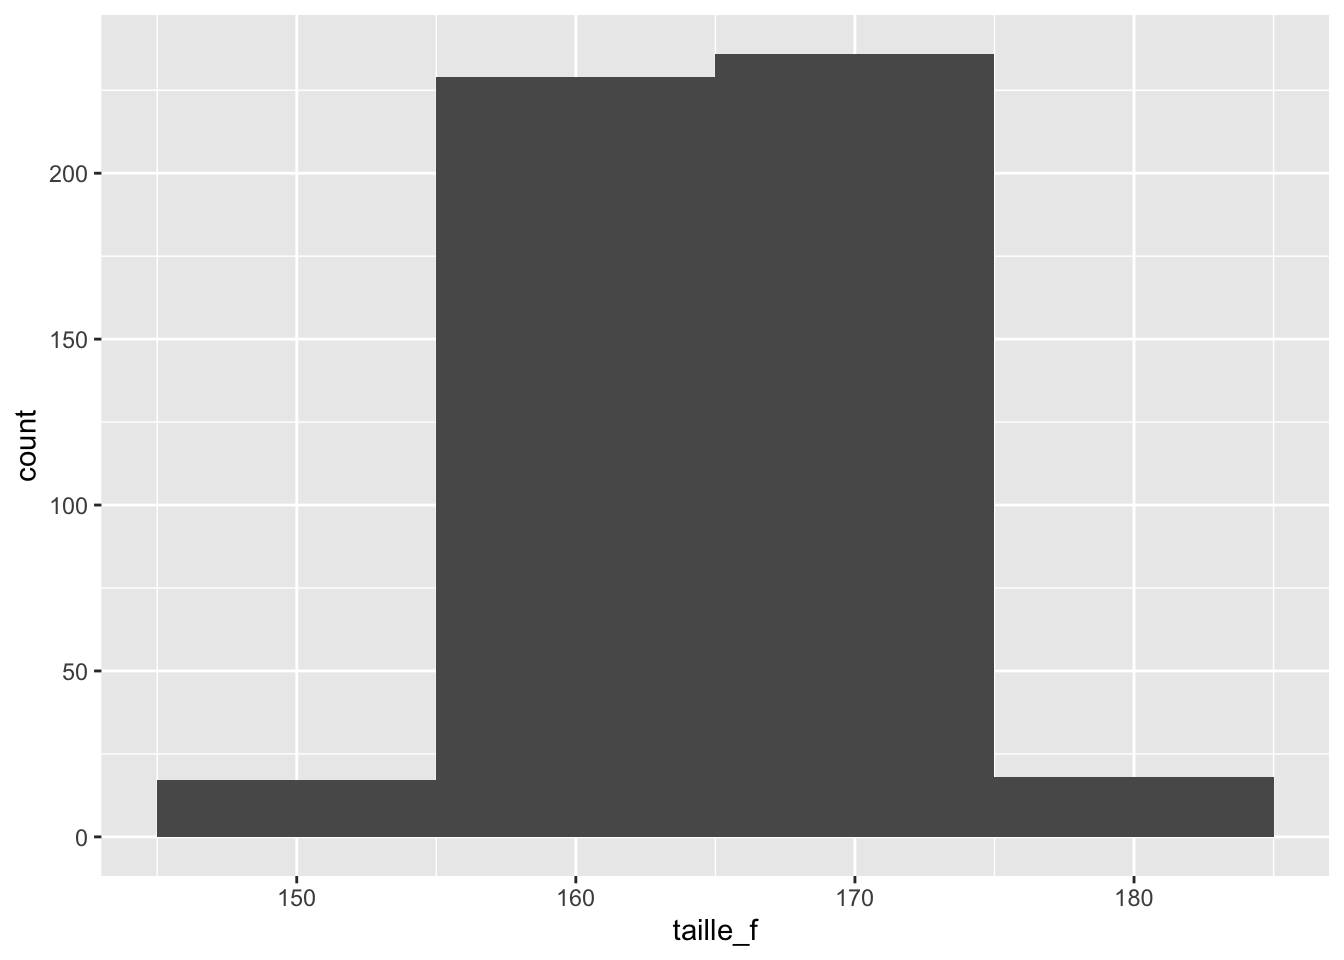
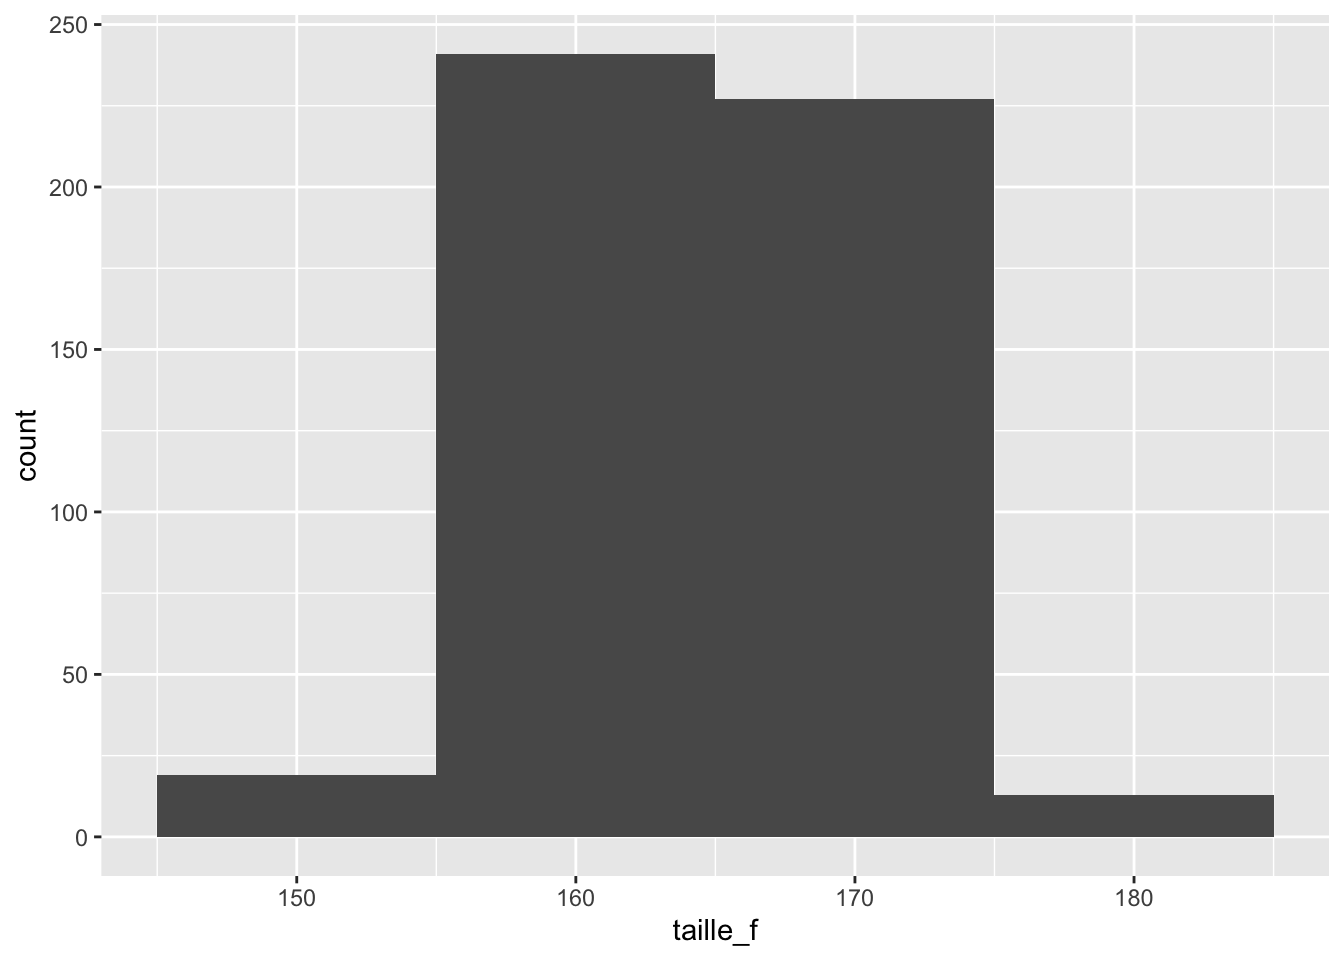
session 8 v1

diff --git a/index.html b/index.html
@@ -1727,7 +1727,7 @@ Attention
 <span id="cb100-5"><a href="#cb100-5" aria-hidden="true" tabindex="-1"></a></span>
 <span id="cb100-6"><a href="#cb100-6" aria-hidden="true" tabindex="-1"></a><span class="fu">head</span>(taille_f)</span></code><button title="Copy to Clipboard" class="code-copy-button"><i class="bi"></i></button></pre></div>
 <div class="cell-output cell-output-stdout">
-<pre><code>[1] 156.1311 160.8612 167.7112 164.9746 169.7221 164.9807</code></pre>
+<pre><code>[1] 161.1955 156.8715 173.0165 159.7963 172.5715 172.6015</code></pre>
 </div>
 <div class="sourceCode cell-code" id="cb102"><pre class="sourceCode r code-with-copy"><code class="sourceCode r"><span id="cb102-1"><a href="#cb102-1" aria-hidden="true" tabindex="-1"></a><span class="co"># stocker taille_f comme objet de type 'data.frame'</span></span>
 <span id="cb102-2"><a href="#cb102-2" aria-hidden="true" tabindex="-1"></a>taille_f <span class="ot">&lt;-</span> <span class="fu">as.data.frame</span>(taille_f)</span>
@@ -2266,40 +2266,42 @@ Astuce
 <span id="cb121-22"><a href="#cb121-22" aria-hidden="true" tabindex="-1"></a><span class="co"># Filtrer à partir de valeurs numériques, p. ex. les posts</span></span>
 <span id="cb121-23"><a href="#cb121-23" aria-hidden="true" tabindex="-1"></a><span class="co"># avec au moins 10 millions d'intéractions :</span></span>
 <span id="cb121-24"><a href="#cb121-24" aria-hidden="true" tabindex="-1"></a></span>
-<span id="cb121-25"><a href="#cb121-25" aria-hidden="true" tabindex="-1"></a>df1 <span class="sc">%&gt;%</span></span>
-<span id="cb121-26"><a href="#cb121-26" aria-hidden="true" tabindex="-1"></a>    <span class="fu">filter</span>(Total.Interactions <span class="sc">&gt;=</span> <span class="fl">1e+07</span>)</span>
-<span id="cb121-27"><a href="#cb121-27" aria-hidden="true" tabindex="-1"></a></span>
-<span id="cb121-28"><a href="#cb121-28" aria-hidden="true" tabindex="-1"></a><span class="co"># Filtrer pour les posts de Selena Gomez avec au moins 10</span></span>
-<span id="cb121-29"><a href="#cb121-29" aria-hidden="true" tabindex="-1"></a><span class="co"># millions d'intéractions :</span></span>
-<span id="cb121-30"><a href="#cb121-30" aria-hidden="true" tabindex="-1"></a></span>
-<span id="cb121-31"><a href="#cb121-31" aria-hidden="true" tabindex="-1"></a>df1 <span class="sc">%&gt;%</span></span>
-<span id="cb121-32"><a href="#cb121-32" aria-hidden="true" tabindex="-1"></a>    <span class="fu">filter</span>(Account <span class="sc">==</span> <span class="st">"Selena Gomez"</span>, Total.Interactions <span class="sc">&gt;=</span> <span class="fl">1e+07</span>)</span>
-<span id="cb121-33"><a href="#cb121-33" aria-hidden="true" tabindex="-1"></a></span>
-<span id="cb121-34"><a href="#cb121-34" aria-hidden="true" tabindex="-1"></a><span class="do">###############################################################################</span></span>
+<span id="cb121-25"><a href="#cb121-25" aria-hidden="true" tabindex="-1"></a><span class="fu">options</span>(<span class="at">scipen =</span> <span class="dv">999</span>)  <span class="co"># Cette commande désactive la notation scientifique des nombres</span></span>
+<span id="cb121-26"><a href="#cb121-26" aria-hidden="true" tabindex="-1"></a></span>
+<span id="cb121-27"><a href="#cb121-27" aria-hidden="true" tabindex="-1"></a>df1 <span class="sc">%&gt;%</span></span>
+<span id="cb121-28"><a href="#cb121-28" aria-hidden="true" tabindex="-1"></a>    <span class="fu">filter</span>(Total.Interactions <span class="sc">&gt;=</span> <span class="fl">1e+07</span>)</span>
+<span id="cb121-29"><a href="#cb121-29" aria-hidden="true" tabindex="-1"></a></span>
+<span id="cb121-30"><a href="#cb121-30" aria-hidden="true" tabindex="-1"></a><span class="co"># Filtrer pour les posts de Selena Gomez avec au moins 10</span></span>
+<span id="cb121-31"><a href="#cb121-31" aria-hidden="true" tabindex="-1"></a><span class="co"># millions d'intéractions :</span></span>
+<span id="cb121-32"><a href="#cb121-32" aria-hidden="true" tabindex="-1"></a></span>
+<span id="cb121-33"><a href="#cb121-33" aria-hidden="true" tabindex="-1"></a>df1 <span class="sc">%&gt;%</span></span>
+<span id="cb121-34"><a href="#cb121-34" aria-hidden="true" tabindex="-1"></a>    <span class="fu">filter</span>(Account <span class="sc">==</span> <span class="st">"Selena Gomez"</span>, Total.Interactions <span class="sc">&gt;=</span> <span class="fl">1e+07</span>)</span>
 <span id="cb121-35"><a href="#cb121-35" aria-hidden="true" tabindex="-1"></a></span>
-<span id="cb121-36"><a href="#cb121-36" aria-hidden="true" tabindex="-1"></a></span>
-<span id="cb121-37"><a href="#cb121-37" aria-hidden="true" tabindex="-1"></a><span class="co"># arrange() : fonction pour trier les lignes selon un ou</span></span>
-<span id="cb121-38"><a href="#cb121-38" aria-hidden="true" tabindex="-1"></a><span class="co"># plusieurs critères</span></span>
-<span id="cb121-39"><a href="#cb121-39" aria-hidden="true" tabindex="-1"></a></span>
-<span id="cb121-40"><a href="#cb121-40" aria-hidden="true" tabindex="-1"></a><span class="co"># Trier des valeurs/facteurs textuelles par ordre</span></span>
-<span id="cb121-41"><a href="#cb121-41" aria-hidden="true" tabindex="-1"></a><span class="co"># alphabétique :</span></span>
-<span id="cb121-42"><a href="#cb121-42" aria-hidden="true" tabindex="-1"></a></span>
-<span id="cb121-43"><a href="#cb121-43" aria-hidden="true" tabindex="-1"></a>df1 <span class="sc">%&gt;%</span></span>
-<span id="cb121-44"><a href="#cb121-44" aria-hidden="true" tabindex="-1"></a>    <span class="fu">arrange</span>(Account) <span class="sc">%&gt;%</span></span>
-<span id="cb121-45"><a href="#cb121-45" aria-hidden="true" tabindex="-1"></a>    <span class="fu">head</span>(<span class="dv">10</span>)</span>
-<span id="cb121-46"><a href="#cb121-46" aria-hidden="true" tabindex="-1"></a></span>
-<span id="cb121-47"><a href="#cb121-47" aria-hidden="true" tabindex="-1"></a><span class="co"># Trier par le nombre d'intéractions (ordre croissant)</span></span>
+<span id="cb121-36"><a href="#cb121-36" aria-hidden="true" tabindex="-1"></a><span class="do">###############################################################################</span></span>
+<span id="cb121-37"><a href="#cb121-37" aria-hidden="true" tabindex="-1"></a></span>
+<span id="cb121-38"><a href="#cb121-38" aria-hidden="true" tabindex="-1"></a></span>
+<span id="cb121-39"><a href="#cb121-39" aria-hidden="true" tabindex="-1"></a><span class="co"># arrange() : fonction pour trier les lignes selon un ou</span></span>
+<span id="cb121-40"><a href="#cb121-40" aria-hidden="true" tabindex="-1"></a><span class="co"># plusieurs critères</span></span>
+<span id="cb121-41"><a href="#cb121-41" aria-hidden="true" tabindex="-1"></a></span>
+<span id="cb121-42"><a href="#cb121-42" aria-hidden="true" tabindex="-1"></a><span class="co"># Trier des valeurs/facteurs textuelles par ordre</span></span>
+<span id="cb121-43"><a href="#cb121-43" aria-hidden="true" tabindex="-1"></a><span class="co"># alphabétique :</span></span>
+<span id="cb121-44"><a href="#cb121-44" aria-hidden="true" tabindex="-1"></a></span>
+<span id="cb121-45"><a href="#cb121-45" aria-hidden="true" tabindex="-1"></a>df1 <span class="sc">%&gt;%</span></span>
+<span id="cb121-46"><a href="#cb121-46" aria-hidden="true" tabindex="-1"></a>    <span class="fu">arrange</span>(Account) <span class="sc">%&gt;%</span></span>
+<span id="cb121-47"><a href="#cb121-47" aria-hidden="true" tabindex="-1"></a>    <span class="fu">head</span>(<span class="dv">10</span>)</span>
 <span id="cb121-48"><a href="#cb121-48" aria-hidden="true" tabindex="-1"></a></span>
-<span id="cb121-49"><a href="#cb121-49" aria-hidden="true" tabindex="-1"></a>df1 <span class="sc">%&gt;%</span></span>
-<span id="cb121-50"><a href="#cb121-50" aria-hidden="true" tabindex="-1"></a>    <span class="fu">arrange</span>(Total.Interactions) <span class="sc">%&gt;%</span></span>
-<span id="cb121-51"><a href="#cb121-51" aria-hidden="true" tabindex="-1"></a>    <span class="fu">head</span>(<span class="dv">10</span>)</span>
-<span id="cb121-52"><a href="#cb121-52" aria-hidden="true" tabindex="-1"></a></span>
-<span id="cb121-53"><a href="#cb121-53" aria-hidden="true" tabindex="-1"></a><span class="co"># Trier par le nombre d'intéractions par follower (ordre</span></span>
-<span id="cb121-54"><a href="#cb121-54" aria-hidden="true" tabindex="-1"></a><span class="co"># décroissant)</span></span>
-<span id="cb121-55"><a href="#cb121-55" aria-hidden="true" tabindex="-1"></a></span>
-<span id="cb121-56"><a href="#cb121-56" aria-hidden="true" tabindex="-1"></a>df1 <span class="sc">%&gt;%</span></span>
-<span id="cb121-57"><a href="#cb121-57" aria-hidden="true" tabindex="-1"></a>    <span class="fu">arrange</span>(<span class="fu">desc</span>(TI_par_Follower)) <span class="sc">%&gt;%</span></span>
-<span id="cb121-58"><a href="#cb121-58" aria-hidden="true" tabindex="-1"></a>    <span class="fu">head</span>(<span class="dv">10</span>)</span></code><button title="Copy to Clipboard" class="code-copy-button"><i class="bi"></i></button></pre></div>
+<span id="cb121-49"><a href="#cb121-49" aria-hidden="true" tabindex="-1"></a><span class="co"># Trier par le nombre d'intéractions (ordre croissant)</span></span>
+<span id="cb121-50"><a href="#cb121-50" aria-hidden="true" tabindex="-1"></a></span>
+<span id="cb121-51"><a href="#cb121-51" aria-hidden="true" tabindex="-1"></a>df1 <span class="sc">%&gt;%</span></span>
+<span id="cb121-52"><a href="#cb121-52" aria-hidden="true" tabindex="-1"></a>    <span class="fu">arrange</span>(Total.Interactions) <span class="sc">%&gt;%</span></span>
+<span id="cb121-53"><a href="#cb121-53" aria-hidden="true" tabindex="-1"></a>    <span class="fu">head</span>(<span class="dv">10</span>)</span>
+<span id="cb121-54"><a href="#cb121-54" aria-hidden="true" tabindex="-1"></a></span>
+<span id="cb121-55"><a href="#cb121-55" aria-hidden="true" tabindex="-1"></a><span class="co"># Trier par le nombre d'intéractions par follower (ordre</span></span>
+<span id="cb121-56"><a href="#cb121-56" aria-hidden="true" tabindex="-1"></a><span class="co"># décroissant)</span></span>
+<span id="cb121-57"><a href="#cb121-57" aria-hidden="true" tabindex="-1"></a></span>
+<span id="cb121-58"><a href="#cb121-58" aria-hidden="true" tabindex="-1"></a>df1 <span class="sc">%&gt;%</span></span>
+<span id="cb121-59"><a href="#cb121-59" aria-hidden="true" tabindex="-1"></a>    <span class="fu">arrange</span>(<span class="fu">desc</span>(TI_par_Follower)) <span class="sc">%&gt;%</span></span>
+<span id="cb121-60"><a href="#cb121-60" aria-hidden="true" tabindex="-1"></a>    <span class="fu">head</span>(<span class="dv">10</span>)</span></code><button title="Copy to Clipboard" class="code-copy-button"><i class="bi"></i></button></pre></div>
 </div>
 </section>
 <section id="résumer-compter-et-regrouper-avec-summarize-count-et-group_by" class="level3">
@@ -2405,7 +2407,7 @@ Astuce
 <li><p>Le matériel de session 8, la deuxième partie de la manipulation de données, sera accessible sur ce site à partir du 17 avril.</p></li>
 <li><p>Assurez-vous d’avoir <strong>rempli le questionnaire avant la date limite</strong> (<strong>19 avril 2024 à 23h59</strong>). Tou(te)s les étudiant(e)s qui auront rempli le questionnaire à temps recevront 2 points de bonus pour le problème set 4 (10% des points).</p></li>
 <li><p>Si vous avez des difficultés à accéder au questionnaire via le lien personnalisé qui vous a été envoyé par e-mail : Essayez à nouveau avec différents navigateurs, sur votre téléphone portable et désactivez les éventuels ad-blockers. Si nécessaire, veuillez contacter l’enseignant afin de recevoir un nouveau lien par e-mail.</p></li>
-<li><p>Dans deux semaines, les 24 et 25 avril, aura lieu <strong>Problem Set 3</strong>. Il portera principalement sur les contenus des sessions 7 et 8 (manipulation de données). Comblez vous-même les éventuelles lacunes de vos connaissances (p.&nbsp;ex. configurer correctement le répertoire de travail, utiliser l’opérateur d’assignation <code>&lt;-</code>, etc.) Assurez-vous de pouvoir lire correctement les fichiers CSV dans RStudio, car cela sera nécessaire pour résoudre l’ensemble de problèmes 3.</p></li>
+<li><p>Dans deux semaines, les 24 et 25 avril, aura lieu <strong>Problem Set 3</strong>. Il portera principalement sur les contenus des sessions 7 et 8 (manipulation de données). Comblez vous-même les éventuelles lacunes de vos connaissances (p.&nbsp;ex. configurer correctement le répertoire de travail, utiliser l’opérateur d’assignation <code>&lt;-</code>, etc.) Assurez-vous de pouvoir lire correctement les fichiers CSV dans RStudio, car cela sera nécessaire pour résoudre l’ensemble de problèmes 3. # Session 8 (cours en auto-apprentissage) <strong>Sujet : Manipuler les données (partie 2)</strong> Le matériel de cette session sera mis à disposition ici ultérieurement.</p></li>
 </ul>
 </section>
 </section>
